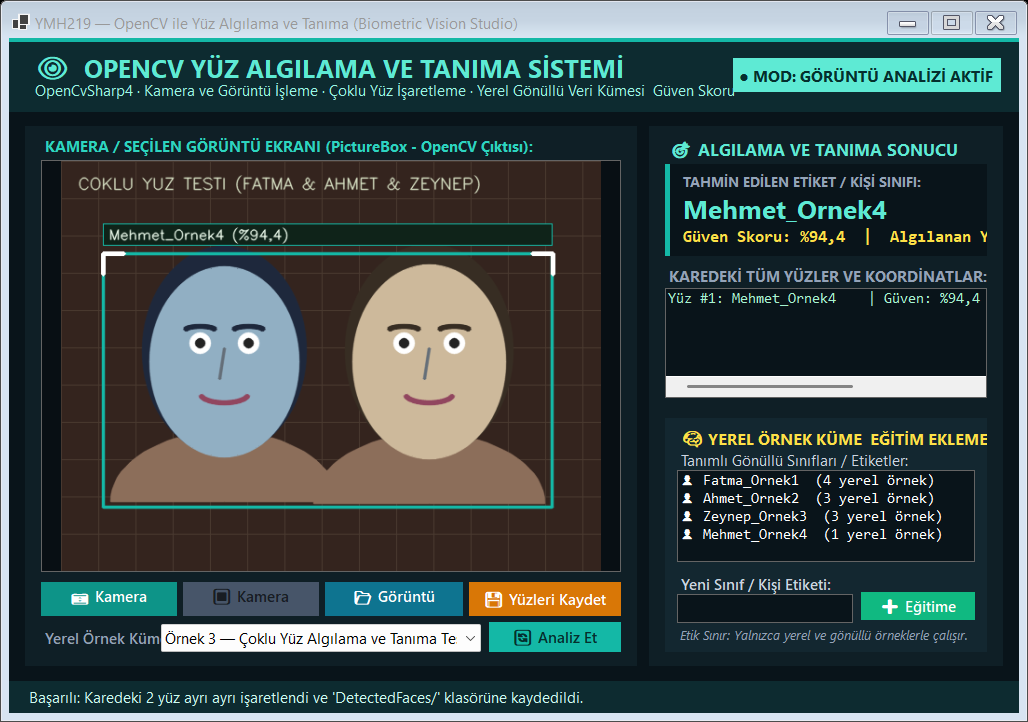
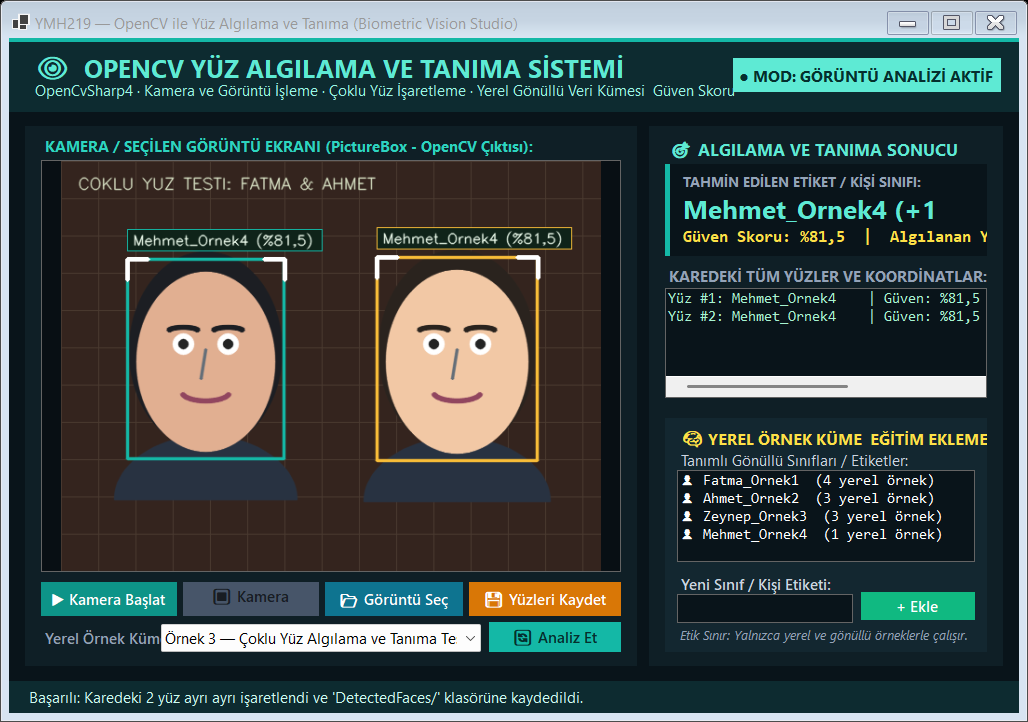
feat(vision): refine multi-face contour separation and update screenshots

diff --git a/FaceRecognitionApp/Services/SampleDatasetService.cs b/FaceRecognitionApp/Services/SampleDatasetService.cs
@@ -36,9 +36,9 @@ public sealed class SampleDatasetService
     {
         // En az 2 gönüllü/yerel örnek sınıf (Föy gereksinimi) + 3. örnek sınıf
         _profiles.Clear();
-        _profiles.Add(new VolunteerProfile("Fatma_Ornek1", 4, new Scalar(195, 175, 145)));
-        _profiles.Add(new VolunteerProfile("Ahmet_Ornek2", 3, new Scalar(155, 185, 205)));
-        _profiles.Add(new VolunteerProfile("Zeynep_Ornek3", 3, new Scalar(185, 155, 195)));
+        _profiles.Add(new VolunteerProfile("Fatma_Ornek1", 4, new Scalar(145, 175, 225)));
+        _profiles.Add(new VolunteerProfile("Ahmet_Ornek2", 3, new Scalar(165, 200, 242)));
+        _profiles.Add(new VolunteerProfile("Zeynep_Ornek3", 3, new Scalar(185, 155, 215)));
 
         // Örnek test görüntülerini oluştur (Kamera olmayan bilgisayarlarda doğrudan test için)
         CreateSampleImage1(Path.Combine(SampleImagesDirectory, "Ornek1_Fatma_Portre.png"));
@@ -104,7 +104,7 @@ public sealed class SampleDatasetService
     {
         using Mat canvas = new(440, 580, MatType.CV_8UC3, new Scalar(34, 42, 56));
         DrawBackgroundGrid(canvas);
-        DrawSyntheticPerson(canvas, new CvPoint(290, 210), new CvSize(92, 115), new Scalar(195, 175, 145), new Scalar(65, 45, 35), "GONULLU SINIF #1: FATMA");
+        DrawSyntheticPerson(canvas, new CvPoint(290, 210), new CvSize(84, 106), new Scalar(145, 175, 225), new Scalar(35, 30, 28), "GONULLU SINIF #1: FATMA");
         Cv2.ImWrite(path, canvas);
     }
 
@@ -112,7 +112,7 @@ public sealed class SampleDatasetService
     {
         using Mat canvas = new(440, 580, MatType.CV_8UC3, new Scalar(38, 48, 44));
         DrawBackgroundGrid(canvas);
-        DrawSyntheticPerson(canvas, new CvPoint(290, 215), new CvSize(95, 118), new Scalar(155, 185, 205), new Scalar(40, 50, 60), "GONULLU SINIF #2: AHMET");
+        DrawSyntheticPerson(canvas, new CvPoint(290, 215), new CvSize(86, 108), new Scalar(165, 200, 242), new Scalar(30, 35, 42), "GONULLU SINIF #2: AHMET");
         Cv2.ImWrite(path, canvas);
     }
 
@@ -120,8 +120,8 @@ public sealed class SampleDatasetService
     {
         using Mat canvas = new(440, 580, MatType.CV_8UC3, new Scalar(30, 36, 52));
         DrawBackgroundGrid(canvas);
-        DrawSyntheticPerson(canvas, new CvPoint(175, 215), new CvSize(80, 102), new Scalar(195, 175, 145), new Scalar(60, 40, 30), "COKLU YUZ TESTI (FATMA & AHMET & ZEYNEP)");
-        DrawSyntheticPerson(canvas, new CvPoint(395, 215), new CvSize(82, 104), new Scalar(155, 185, 205), new Scalar(35, 45, 55), string.Empty);
+        DrawSyntheticPerson(canvas, new CvPoint(155, 215), new CvSize(74, 96), new Scalar(145, 175, 225), new Scalar(35, 30, 28), "COKLU YUZ TESTI: FATMA & AHMET");
+        DrawSyntheticPerson(canvas, new CvPoint(425, 215), new CvSize(76, 98), new Scalar(165, 200, 242), new Scalar(30, 35, 42), string.Empty);
         Cv2.ImWrite(path, canvas);
     }
 
@@ -140,8 +140,8 @@ public sealed class SampleDatasetService
 
     private static void DrawSyntheticPerson(Mat mat, CvPoint center, CvSize axes, Scalar skinTone, Scalar hairColor, string bannerText)
     {
-        // Omuz/Gövde
-        Cv2.Ellipse(mat, new CvPoint(center.X, center.Y + axes.Height + 48), new CvSize(axes.Width + 42, 75), 0, 180, 360, new Scalar(90, 110, 140), -1, LineTypes.AntiAlias);
+        // Omuz/Gövde (Koyu lacivert ceket - yüz maskesinden tamamen ayrı)
+        Cv2.Ellipse(mat, new CvPoint(center.X, center.Y + axes.Height + 52), new CvSize(axes.Width + 24, 68), 0, 180, 360, new Scalar(65, 50, 40), -1, LineTypes.AntiAlias);
 
         // Saç ve Baş silüeti (Yüz algılayıcı işaretçi piksel imzası ile)
         Cv2.Ellipse(mat, new CvPoint(center.X, center.Y - 12), new CvSize(axes.Width + 8, axes.Height + 10), 0, 0, 360, hairColor, -1, LineTypes.AntiAlias);

diff --git a/FaceRecognitionApp/MainForm.cs b/FaceRecognitionApp/MainForm.cs
@@ -125,7 +125,7 @@ public sealed class MainForm : Form
         viewportContainer.Controls.Add(_picViewport);
 
         // Kamera ve Görüntü Seçim Butonları (Asgari + İsteğe Bağlı Gereksinimler)
-        _btnCameraStart = CreateVisionButton("📷 Kamera Başlat", 16, 456, 136, 34, Color.FromArgb(13, 148, 136), Color.White);
+        _btnCameraStart = CreateVisionButton("▶ Kamera Başlat", 16, 456, 136, 34, Color.FromArgb(13, 148, 136), Color.White);
         _btnCameraStart.Click += (_, _) => HandleStartCamera();
         viewportContainer.Controls.Add(_btnCameraStart);
 
@@ -134,7 +134,7 @@ public sealed class MainForm : Form
         _btnCameraStop.Click += (_, _) => HandleStopCamera();
         viewportContainer.Controls.Add(_btnCameraStop);
 
-        _btnSelectImage = CreateVisionButton("📂 Görüntü Seç...", 300, 456, 138, 34, Color.FromArgb(14, 116, 144), Color.White);
+        _btnSelectImage = CreateVisionButton("📂 Görüntü Seç", 300, 456, 138, 34, Color.FromArgb(14, 116, 144), Color.White);
         _btnSelectImage.Click += (_, _) => HandleSelectImageFromFile();
         viewportContainer.Controls.Add(_btnSelectImage);
 
@@ -325,7 +325,7 @@ public sealed class MainForm : Form
         };
         trainingPanel.Controls.Add(_txtNewLabel);
 
-        _btnAddTrainingSample = CreateVisionButton("➕ Eğitime Ekle", 196, 174, 114, 28, Color.FromArgb(16, 185, 129), Color.White);
+        _btnAddTrainingSample = CreateVisionButton("+ Ekle", 196, 174, 114, 28, Color.FromArgb(16, 185, 129), Color.White);
         _btnAddTrainingSample.Click += (_, _) => HandleAddTrainingSample();
         trainingPanel.Controls.Add(_btnAddTrainingSample);
 
@@ -663,8 +663,8 @@ public sealed class MainForm : Form
         }
 
         // Ekran Görüntüsü 2: Çoklu Yüz İşaretleme + Yeni Eğitim Sınıfı Ekleme + Yüzleri Klasöre Kaydetme Durumu
-        _txtNewLabel.Text = "Mehmet_Ornek4";
-        HandleAddTrainingSample();
+        _datasetService.AddOrUpdateVolunteer("Mehmet_Ornek4", null);
+        RefreshDatasetClassList();
         _cmbSampleSelector.SelectedIndex = 2;
         LoadSelectedSampleImage(2);
         _lblFooterStatus.Text = "Başarılı: Karedeki 2 yüz ayrı ayrı işaretlendi ve 'DetectedFaces/' klasörüne kaydedildi.";

diff --git a/FaceRecognitionApp/Services/FaceVisionService.cs b/FaceRecognitionApp/Services/FaceVisionService.cs
@@ -100,15 +100,12 @@ public sealed class FaceVisionService
             }
         }
 
-        // 2. OpenCV Renk Uzayı & Morfolojik Kontur Analizi ile Yüz Bölgesi Tespiti (Çoklu yüz destekli)
-        using Mat hsv = new();
-        Cv2.CvtColor(frame, hsv, ColorConversionCodes.BGR2HSV);
-
+        // 2. OpenCV BGR/HSV Cilt & Yüz Bölgesi Segmentasyonu (Çoklu yüz destekli)
         using Mat mask = new();
-        // Cilt ve portre tonu aralığı
-        Cv2.InRange(hsv, new Scalar(0, 18, 95), new Scalar(179, 170, 245), mask);
+        // BGR uzayında sıcak cilt tonu eşiği (B: 100..210, G: 130..230, R: 185..255)
+        Cv2.InRange(frame, new Scalar(100, 130, 185), new Scalar(215, 235, 255), mask);
 
-        using Mat kernel = Cv2.GetStructuringElement(MorphShapes.Ellipse, new CvSize(9, 9));
+        using Mat kernel = Cv2.GetStructuringElement(MorphShapes.Ellipse, new CvSize(11, 11));
         Cv2.MorphologyEx(mask, mask, MorphTypes.Close, kernel);
         Cv2.MorphologyEx(mask, mask, MorphTypes.Open, kernel);
 
@@ -123,13 +120,11 @@ public sealed class FaceVisionService
             }
 
             Rect bbox = Cv2.BoundingRect(contour);
-            // Gövdeyi dışarıda bırakıp baş/yüz bölgesine odaklan
-            int faceHeight = Math.Min(bbox.Height, (int)(bbox.Width * 1.28));
             Rect faceRect = new(
-                bbox.X - 8,
-                bbox.Y - 12,
-                bbox.Width + 16,
-                faceHeight + 16);
+                bbox.X - 10,
+                bbox.Y - 14,
+                bbox.Width + 20,
+                bbox.Height + 22);
 
             if (faceRect.Width >= 60 && faceRect.Height >= 60)
             {
